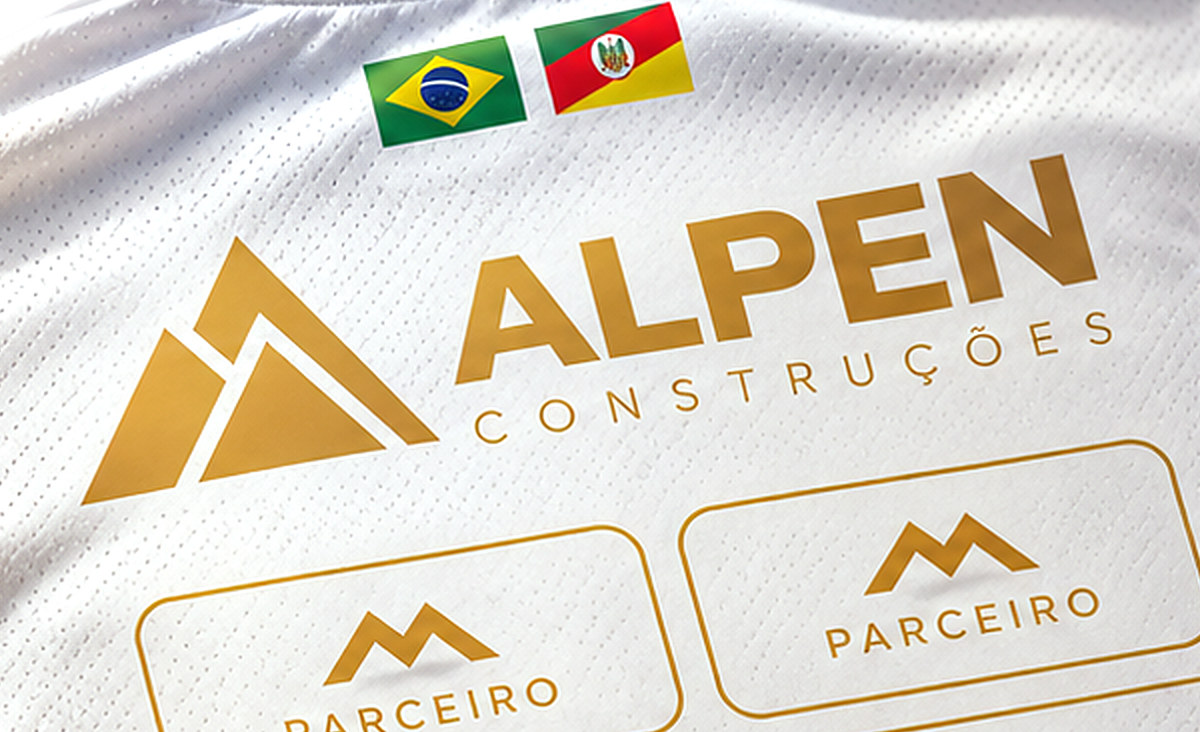
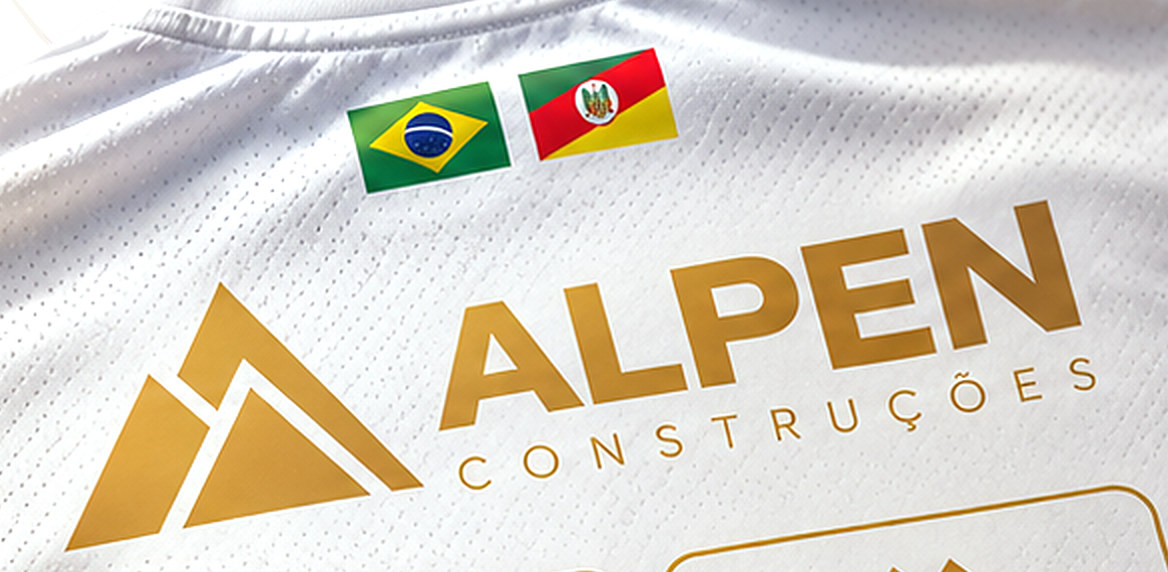
auto: update 2026-10-31T15:23:39

diff --git a/proposta-dus-guri/proposta-dus-guri.html b/proposta-dus-guri/proposta-dus-guri.html
@@ -23,38 +23,51 @@ html,body{background:#000;-webkit-print-color-adjust:exact;print-color-adjust:ex
 .folio{right:var(--m);bottom:56px;text-align:right}
 
 /* 1 — capa */
-#p1 .titulo{left:var(--m);top:44px;font-size:189px}
+#p1 .titulo{left:66px;top:44px;font-size:189px}
 #p1 .camisa{left:0;top:112px;width:1920px;height:auto}
 #p1 .assina{left:var(--m);top:262px;font-size:38px}
 
 /* 2 — espaços */
-#p2 .titulo{left:var(--m);top:44px;font-size:150px}
-#p2 .camisa{left:0;top:111px;width:1722px;height:auto}
+#p2 .titulo{left:67px;top:36px;font-size:150px}
+#p2 .camisa{left:0;top:129px;width:1690px;height:auto}
 .fio{height:2px;background:var(--tinta)}
 .fio::before{content:"";position:absolute;left:-7px;top:-6px;width:14px;height:14px;border-radius:50%;background:var(--ouro)}
 .cota{left:1380px;width:470px}
-.cota .num{font-size:216px;line-height:.78;display:block}
-.cota h3{font-size:58px;font-weight:300;line-height:1;margin:22px 0 14px;white-space:nowrap}
-.cota h3 b{font-family:"Archivo XC";font-weight:800;font-size:66px}
+.cota .num{font-size:150px;line-height:.78;display:block}
+.cota h3{font-size:50px;font-weight:300;line-height:1;margin:16px 0 8px;white-space:nowrap}
+.cota h3 b{font-family:"Archivo XC";font-weight:800;font-size:58px}
 .cota p{font-size:28px;line-height:1.3;color:var(--grafite)}
 .ouro{color:var(--ouro)}
 
 /* 3 — investimento */
-#p3 .titulo{left:var(--m);top:56px;font-size:118px;line-height:.92}
+#p3 .titulo{left:67px;top:56px;font-size:118px;line-height:.92}
 #p3 .folio{left:var(--m);right:auto;text-align:left}
 .pl{top:0;height:1080px}
 #master{left:610px;width:730px;background:var(--branco)}
 #padrao{left:1340px;width:580px}
 .pl>*{position:absolute}
-.pl .foto{left:0;top:0;width:100%;height:420px;object-fit:cover}
-.pl h3{left:44px;top:452px;font-size:42px;font-weight:300;white-space:nowrap}
+.pl .foto{left:0;top:0;width:100%}
+#master .foto{height:358px;clip-path:polygon(0 0,100% 0,100% 292px,0 358px)}
+#padrao .foto{height:292px;clip-path:polygon(0 0,100% 0,100% 240px,0 292px)}
+#diag{left:0;top:0;width:1920px;height:1080px;background:var(--ouro);clip-path:polygon(610px 355px,1920px 237px,1920px 243px,610px 361px)}
+.pl h3{left:44px;font-size:40px;font-weight:300;line-height:1;white-space:nowrap}
 .pl h3 b{font-weight:600}
-.preco{left:44px;top:506px;display:flex;align-items:flex-start;white-space:nowrap}
-.preco .rs{font-size:46px;font-weight:600;margin:20px 12px 0 0;font-family:"Archivo"}
-.preco .cheio{font-size:300px;line-height:.86}
-.preco .cent{font-size:92px;line-height:1;margin:10px 0 0 6px}
-#master .cheio{color:var(--ouro)}
-.pl ul{left:44px;right:36px;top:790px;list-style:none;font-size:28px;line-height:1.26;color:var(--grafite)}
+#master h3{top:396px}
+#padrao h3{top:474px}
+.preco{left:44px;display:flex;align-items:flex-start;white-space:nowrap}
+#master .preco{top:444px}
+#padrao .preco{top:522px}
+.preco .rs{font-weight:600;font-family:"Archivo"}
+.preco .cheio{line-height:.86}
+#master .rs{font-size:48px;margin:24px 12px 0 0}
+#master .cheio{font-size:340px;color:var(--ouro)}
+#master .cent{font-size:104px;line-height:1;margin:10px 0 0 6px}
+#padrao .rs{font-size:40px;margin:16px 10px 0 0}
+#padrao .cheio{font-size:250px}
+#padrao .cent{font-size:78px;line-height:1;margin:6px 0 0 5px}
+.pl ul{left:44px;top:768px;list-style:none;font-size:28px;line-height:1.26;color:var(--grafite)}
+#master ul{right:44px}
+#padrao ul{right:72px}
 .pl li{padding:11px 0;border-top:1.5px solid rgba(18,18,17,.18)}
 .pl li:first-child{color:var(--tinta);font-weight:600}
 
@@ -62,10 +75,10 @@ html,body{background:#000;-webkit-print-color-adjust:exact;print-color-adjust:ex
 #p4{background:var(--tinta);color:#F4F3EF}
 #p4 .macro{left:0;top:0;width:1920px;height:1080px;clip-path:polygon(1010px 0,1920px 0,1920px 1080px,770px 1080px)}
 #p4 .fio-ouro{left:0;top:0;width:1920px;height:1080px;background:var(--ouro);clip-path:polygon(1002px 0,1010px 0,770px 1080px,762px 1080px)}
-#p4 .titulo{left:var(--m);top:60px;font-size:206px;line-height:.9}
-#p4 .apoio{left:var(--m);top:660px;width:640px;font-size:32px;line-height:1.28;font-weight:300}
-#p4 .apoio p+p{margin-top:12px;font-weight:600}
-#p4 .contato{left:var(--m);top:850px;width:640px;font-size:32px;line-height:1.3}
+#p4 .titulo{left:66px;top:56px;font-size:190px;line-height:.96}
+#p4 .apoio{left:var(--m);top:634px;width:680px;font-size:32px;line-height:1.28;font-weight:300}
+#p4 .apoio p+p{margin-top:16px;font-weight:600}
+#p4 .contato{left:var(--m);top:880px;width:640px;font-size:32px;line-height:1.4;padding-top:24px;border-top:1.5px solid rgba(244,243,239,.3)}
 #p4 .contato .linha{display:flex;gap:48px}
 #p4 .contato .nome{font-weight:600}
 </style>
@@ -81,17 +94,17 @@ html,body{background:#000;-webkit-print-color-adjust:exact;print-color-adjust:ex
 <section class="pg" id="p2">
   <h2 class="titulo xc">Sua marca no nosso uniforme</h2>
   <img class="camisa" src="assets/camisa-costas.png" alt="Costas da camiseta com as áreas de patrocínio">
-  <div class="fio" style="left:866px;top:352px;width:490px"></div>
-  <div class="cota" style="top:206px">
+  <div class="fio" style="left:852px;top:368px;width:504px"></div>
+  <div class="cota" style="top:312px">
     <span class="num xc ouro">1</span>
     <h3>COTA <b>MASTER</b></h3>
-    <p>Uma única posição, na parte superior das costas, abaixo das bandeiras. A maior área de destaque destinada a uma marca patrocinadora.</p>
+    <p>Uma única posição, na parte superior das costas, abaixo das bandeiras. A maior área de destaque.</p>
   </div>
-  <div class="fio" style="left:982px;top:712px;width:374px"></div>
-  <div class="cota" style="top:640px">
+  <div class="fio" style="left:952px;top:712px;width:404px"></div>
+  <div class="cota" style="top:656px">
     <span class="num xc">8</span>
     <h3>COTA <b>PADRÃO</b></h3>
-    <p>Oito espaços disponíveis, em duas colunas e quatro linhas, abaixo da área Master.</p>
+    <p>Oito espaços, em duas colunas e quatro linhas, abaixo da área Master.</p>
   </div>
 </section>
 
@@ -118,6 +131,7 @@ html,body{background:#000;-webkit-print-color-adjust:exact;print-color-adjust:ex
       <li>Aplicação da marca nas posições inferiores das costas.</li>
     </ul>
   </div>
+  <div id="diag"></div>
 </section>
 
 <section class="pg" id="p4">
@@ -125,8 +139,8 @@ html,body{background:#000;-webkit-print-color-adjust:exact;print-color-adjust:ex
   <div class="fio-ouro"></div>
   <h2 class="titulo xc">Faça parte<br>do nosso<br><span class="ouro">time.</span></h2>
   <div class="apoio">
-    <p>Sua marca pode fazer parte da identidade do Dus Guri Padel Team.</p>
-    <p>Entre em contato e garanta seu espaço no uniforme.</p>
+    <p>Sua marca pode fazer parte da identidade<br>do Dus Guri Padel Team.</p>
+    <p>Entre em contato e garanta<br>seu espaço no uniforme.</p>
   </div>
   <div class="contato">
     <p class="nome">[RESPONSÁVEL]</p>
